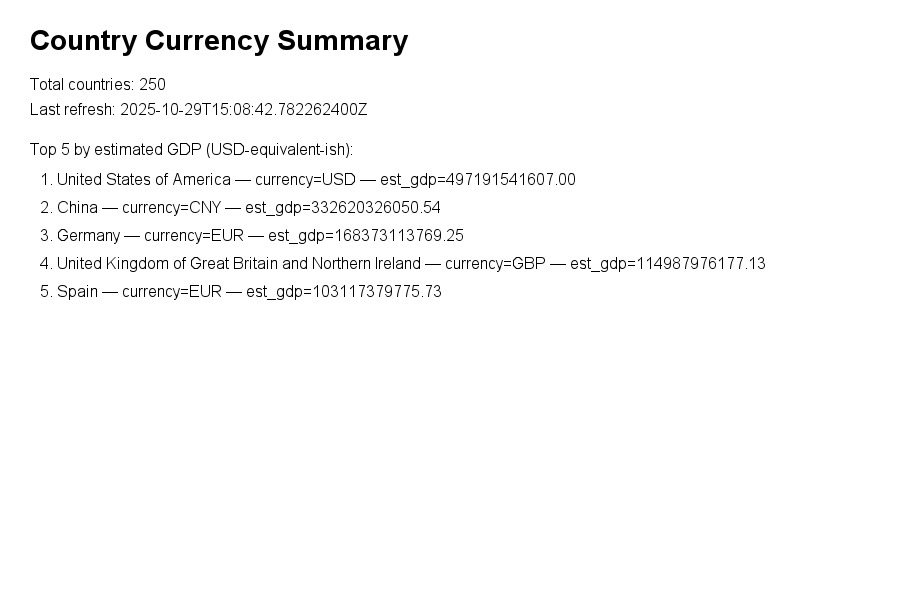
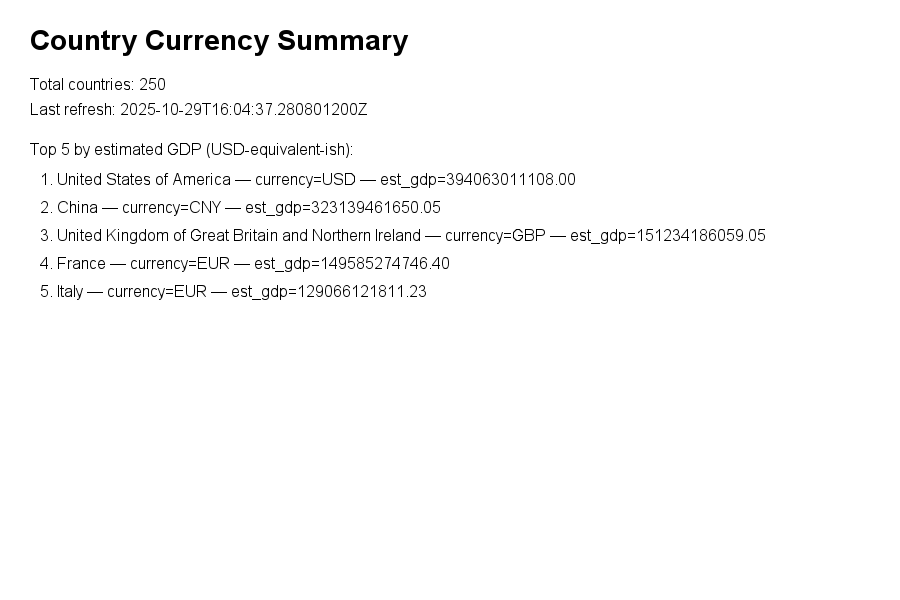
Updated app.prop

Changed region(s): [[0.0622, 0.33, 0.84, 0.51], [0.4978, 0.27, 0.6222, 0.33], [0.28, 0.15, 0.3733, 0.21]]

diff --git a/src/main/java/com/countryexchange/country_exchange_api/config/WebConfig.java b/src/main/java/com/countryexchange/country_exchange_api/config/WebConfig.java
@@ -1,13 +1,23 @@
 package com.countryexchange.country_exchange_api.config;
 
+import org.springframework.boot.web.client.RestTemplateBuilder;
 import org.springframework.context.annotation.Bean;
 import org.springframework.context.annotation.Configuration;
 import org.springframework.web.client.RestTemplate;
 
+import java.time.Duration;
+
 @Configuration
 public class WebConfig {
     @Bean
-    public RestTemplate restTemplate() {
-        return new RestTemplate();
+    public RestTemplate restTemplate(RestTemplateBuilder builder) {
+        return builder
+                .requestFactory(() -> {
+                    var factory = new org.springframework.http.client.SimpleClientHttpRequestFactory();
+                    factory.setConnectTimeout(5000);    // 5 seconds (in milliseconds)
+                    factory.setReadTimeout(10000);      // 10 seconds (in milliseconds)
+                    return factory;
+                })
+                .build();
     }
 }
